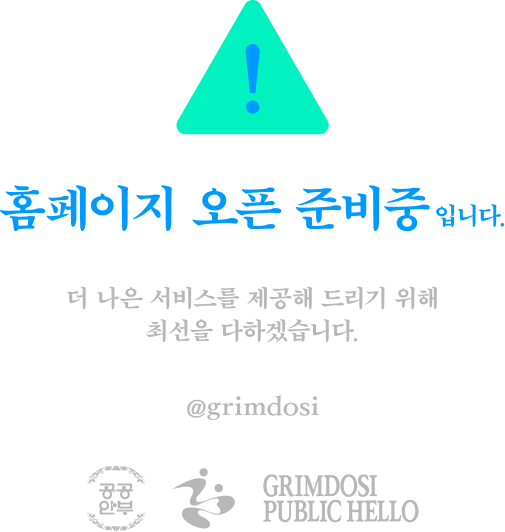
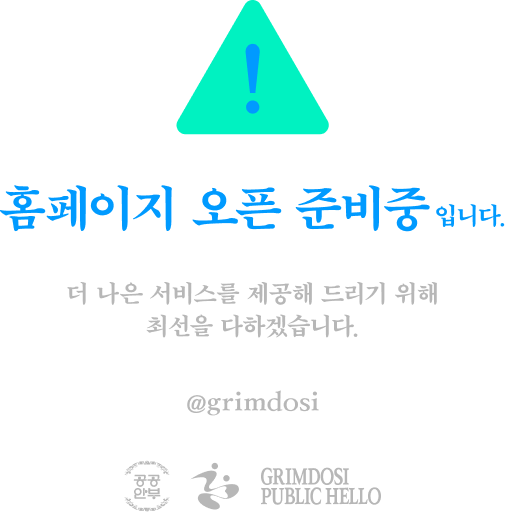
팝업 타이밍/애니메이션 조정, Figma 비율·푸터 스타일 반영, 반응형 개선
- 팝업 등장: 1.5초 대기 후 첫 팝업, 1초 간격, 애니메이션 0.18s로 단축
- '오늘 하루동안 보지 않기' 기능 제거(재접속 시 항상 노출), useDailyDismiss 삭제
- Figma(470x757) 비율 적용: 헤더 5.02% / 푸터 10.44% / 포스터 object-fit contain
- 팝업을 컨테이너로 지정, 폰트/radius/여백을 cqw 상대값으로 스케일
- 푸터 버튼/체크박스 색상 Figma 매칭(hover #D2D0D1, 체크박스 블루 채움)
- 좁은 화면 푸터 2줄 줄바꿈(@container), 반투명 오버레이 배경 제거
- .claude/ 푸시 절차 문서 추가 및 .gitignore 처리

diff --git a/app/components/AlertPopup.vue b/app/components/AlertPopup.vue
@@ -64,15 +64,24 @@ function onClose() {
 </template>
 
 <style scoped>
+/*
+ * Figma 기준 비율 (node 47-232, 470 × 757):
+ *   - 헤더  : 38/757  ≈ 5.02%
+ *   - 푸터  : 79/757  ≈ 10.44%
+ *   - 본문  : 나머지 ≈ 84.5% (포스터는 object-fit: contain으로 배치)
+ *   - 팝업 전체 비율 470:757 (1:1.611)
+ */
 .popup {
   /* 팝업 전체 폰트: 맑은 고딕 */
   font-family: 'Malgun Gothic', 'malgun gothic', '맑은 고딕', 'Apple SD Gothic Neo',
     sans-serif;
   width: 100%;
-  max-width: 420px;
-  max-height: 92vh;
+  aspect-ratio: 470 / 757;
+  /* 자식 요소가 팝업 폭(cqw) 기준으로 스케일되도록 컨테이너 지정 */
+  container-type: inline-size;
   background: #fff;
-  border-radius: 14px;
+  /* 팝업 폭에 비례하는 라운드 (14px @ 470폭) */
+  border-radius: clamp(8px, 3cqw, 14px);
   overflow: hidden;
   display: flex;
   flex-direction: column;
@@ -80,28 +89,34 @@ function onClose() {
 }
 
 .popup-header {
-  flex: 0 0 auto;
+  flex: 0 0 5.02%;
   display: flex;
   align-items: center;
   justify-content: space-between;
-  padding: 14px 18px;
+  padding: 0 clamp(8px, 4%, 18px);
   background: var(--grim-blue);
   color: #fff;
 }
 
 .popup-title {
-  font-size: 16px;
+  font-size: clamp(8px, 3.4cqw, 16px);
   font-weight: 700;
   display: inline-flex;
   align-items: center;
-  gap: 7px;
+  gap: 0.45em;
+}
+
+.bell {
+  width: 1.25em;
+  height: 1.25em;
+  flex: 0 0 auto;
 }
 
 .header-x {
   border: none;
   background: transparent;
   color: #fff;
-  font-size: 18px;
+  font-size: clamp(10px, 3.8cqw, 18px);
   line-height: 1;
   padding: 4px;
   opacity: 0.95;
@@ -113,103 +128,130 @@ function onClose() {
 
 .popup-body {
   flex: 1 1 auto;
-  overflow-y: auto;
-  padding: 14px;
+  min-height: 0;
+  overflow: hidden;
   background: #fff;
 }
 
 .poster {
+  /* 상하 여백도 팝업 폭에 맞춰 축소 (13px @ 470폭) */
+  padding-top: clamp(6px, 2.8cqw, 13px);
+  padding-bottom: clamp(6px, 2.8cqw, 13px);
   display: block;
   width: 100%;
-  height: auto;
-  border-radius: 4px;
+  height: 100%;
+  object-fit: contain;
 }
 
 .popup-footer {
-  flex: 0 0 auto;
+  flex: 0 0 10.44%;
   display: flex;
   align-items: center;
   justify-content: space-between;
   gap: 10px;
-  padding: 14px 16px;
-  border-top: 1px solid #eef0f2;
-  flex-wrap: wrap;
+  padding: 0 clamp(12px, 4%, 16px);
+  border-top: 1px solid #D2D0D1;
 }
 
 .dont-show {
   display: inline-flex;
   align-items: center;
-  gap: 7px;
-  font-size: 13px;
-  color: #666;
+  gap: 0.55em;
+  font-size: clamp(8px, 2.8cqw, 13px);
+  color: #202020;
   user-select: none;
+  cursor: pointer;
+  white-space: nowrap;
+}
+
+/* 체크박스: 라운드 사각 아웃라인 (#B5B5B5), 약 18px @ 470폭 */
+.dont-show input {
+  appearance: none;
+  -webkit-appearance: none;
+  width: clamp(11px, 3.8cqw, 18px);
+  height: clamp(11px, 3.8cqw, 18px);
+  flex: 0 0 auto;
+  border: 1px solid #b5b5b5;
+  border-radius: 4px;
+  background: #fff;
+  position: relative;
   cursor: pointer;
 }
 
-.dont-show input {
-  width: 16px;
-  height: 16px;
-  cursor: pointer;
+/* 체크됨: 브랜드 블루 채움 + 흰 체크 */
+.dont-show input:checked {
+  background: var(--grim-blue);
+  border-color: var(--grim-blue);
+}
+
+.dont-show input:checked::after {
+  content: '';
+  position: absolute;
+  left: 50%;
+  top: 46%;
+  width: 26%;
+  height: 54%;
+  border: solid #fff;
+  border-width: 0 2px 2px 0;
+  transform: translate(-50%, -55%) rotate(45deg);
 }
 
 .footer-buttons {
   display: flex;
-  gap: 8px;
+  gap: clamp(5px, 1.3cqw, 6px);
 }
 
+/* 기본: 흰 배경 + 연한 회색 테두리 (#EEEDEE), hover 시 회색 채움 (#D2D0D1) */
 .btn {
-  border: 1px solid #d6d9dd;
+  min-width: clamp(58px, 23.4cqw, 110px);
   background: #fff;
-  color: #333;
-  font-size: 14px;
-  font-weight: 600;
-  padding: 9px 16px;
-  border-radius: 8px;
+  border: 1px solid #eeedee;
+  color: #202020;
+  font-size: clamp(9px, 3cqw, 14px);
+  font-weight: 700;
+  text-align: center;
+  padding: clamp(6px, 2.5cqw, 12px) clamp(10px, 4cqw, 20px);
+  border-radius: clamp(3px, 1.1cqw, 5px);
+  white-space: nowrap;
   transition: background 0.15s ease, border-color 0.15s ease;
 }
 
 .btn:hover {
-  background: #d3d3d3;
-  border-color: #c4c4c4;
+  background: #d2d0d1;
+  border-color: #d2d0d1;
 }
 
 .btn-detail {
   display: inline-flex;
   align-items: center;
-  gap: 4px;
+  justify-content: center;
+  gap: 0.3em;
 }
 
-@media (max-width: 480px) {
-  /* 좁은 화면: 한 줄 유지(체크박스 왼쪽·버튼 오른쪽), 넘치면 왼쪽 정렬로 줄바꿈 */
+/*
+ * 좁은 팝업(모바일 등): 한 줄에 다 못 들어가 잘리므로 두 줄로 줄바꿈.
+ * 체크박스 줄(위) + 버튼 줄(아래, 반반 분할). 왼쪽 정렬 유지, 잘림 방지.
+ * 팝업이 컨테이너(container-type: inline-size)라 팝업 폭 기준으로 동작.
+ */
+@container (max-width: 380px) {
   .popup-footer {
-    justify-content: space-between;
-    align-items: center;
-    gap: 8px 10px;
-    padding: 12px;
-  }
-  .popup-body {
-    padding: 10px;
+    flex: 0 0 auto; /* 고정 높이 비율 해제 → 내용 높이만큼 */
+    flex-wrap: wrap;
+    justify-content: flex-start;
+    align-content: center;
+    row-gap: clamp(6px, 2.5cqw, 10px);
+    padding-top: clamp(8px, 3cqw, 12px);
+    padding-bottom: clamp(8px, 3cqw, 12px);
   }
   .dont-show {
-    font-size: 11px;
-    gap: 5px;
-  }
-  .dont-show input {
-    width: 14px;
-    height: 14px;
-  }
-  .btn {
-    padding: 7px 9px;
-    font-size: 12px;
+    flex: 1 0 100%; /* 체크박스 줄이 한 줄 전체 차지 → 버튼은 다음 줄로 */
   }
   .footer-buttons {
-    gap: 6px;
+    width: 100%;
   }
-  .popup-header {
-    padding: 12px 14px;
-  }
-  .popup-title {
-    font-size: 15px;
+  .btn {
+    flex: 1;
+    min-width: 0; /* 두 버튼이 줄을 반반 나눠 채움 */
   }
 }
 </style>

diff --git a/app/pages/index.vue b/app/pages/index.vue
@@ -8,8 +8,6 @@ import popup2 from '~/assets/popup2.png'
 
 const INSTAGRAM_URL = 'https://www.instagram.com/grimdosi?igsh=a2k1dDRxdDE5YW8x'
 
-const { isDismissedToday, dismissForToday } = useDailyDismiss()
-
 // 뒤(back) → 앞(front) 순서로 1초 간격을 두고 겹쳐서 표시한다.
 const POPUPS = [
   { id: 'popup2', image: popup2, alt: '그림도시 공공안부 긴급 알림 포스터 2', slot: 'slot-back' },
@@ -23,16 +21,16 @@ const shownPopups = computed(() => POPUPS.filter((p) => visible[p.id]))
 const anyVisible = computed(() => shownPopups.value.length > 0)
 
 onMounted(() => {
-  // 오늘 dismiss되지 않은 팝업만, 1초 간격으로 순차 등장(겹침)
-  POPUPS.filter((p) => !isDismissedToday(p.id)).forEach((p, i) => {
-    timers.push(setTimeout(() => (visible[p.id] = true), i * 1000))
+  // 접속 후 1.5초 대기 → 첫 팝업, 이후 1초 간격으로 겹쳐서 등장
+  POPUPS.forEach((p, i) => {
+    timers.push(setTimeout(() => (visible[p.id] = true), 1500 + i * 1000))
   })
 })
 
 onBeforeUnmount(() => timers.forEach(clearTimeout))
 
-function handleClose(id: string, dontShowToday: boolean) {
-  if (dontShowToday) dismissForToday(id)
+function handleClose(id: string) {
+  // '오늘 하루동안 보지 않기'는 실제 동작하지 않음(재접속 시 항상 다시 노출)
   visible[id] = false
 }
 
@@ -79,7 +77,7 @@ function openDetail() {
             :id="p.id"
             :image="p.image"
             :alt="p.alt"
-            @close="(dont: boolean) => handleClose(p.id, dont)"
+            @close="() => handleClose(p.id)"
             @detail="openDetail"
           />
         </div>
@@ -170,14 +168,16 @@ function openDetail() {
   position: fixed;
   inset: 0;
   z-index: 100;
-  background: rgba(0, 0, 0, 0.45);
+  pointer-events: none; /* 배경 클릭은 통과, 팝업만 상호작용 */
 }
 
+/* 팝업은 470:757 고정 비율. 세로가 넘치지 않도록 57vh(=92vh*470/757)로도 폭을 제한 */
 .popup-slot {
   position: absolute;
   top: 50%;
   left: 50%;
-  width: min(420px, calc(100vw - 40px));
+  width: min(420px, calc(100vw - 40px), 57vh);
+  pointer-events: auto; /* 팝업은 클릭 가능 */
 }
 
 .slot-back {
@@ -193,7 +193,7 @@ function openDetail() {
 /* 좁은 화면/모바일: 팝업은 화면 안에 여백을 두고 축소, 겹침은 유지 */
 @media (max-width: 640px) {
   .popup-slot {
-    width: min(300px, calc(100vw - 64px));
+    width: min(300px, calc(100vw - 64px), 57vh);
   }
   .slot-back {
     transform: translate(calc(-50% - 14px), calc(-50% - 40px));
@@ -205,7 +205,7 @@ function openDetail() {
 
 /* 등장 애니메이션 */
 .pop-enter-active {
-  transition: opacity 0.35s ease, transform 0.35s cubic-bezier(0.22, 1, 0.36, 1);
+  transition: opacity 0.18s ease, transform 0.18s cubic-bezier(0.22, 1, 0.36, 1);
 }
 .pop-enter-from {
   opacity: 0;
